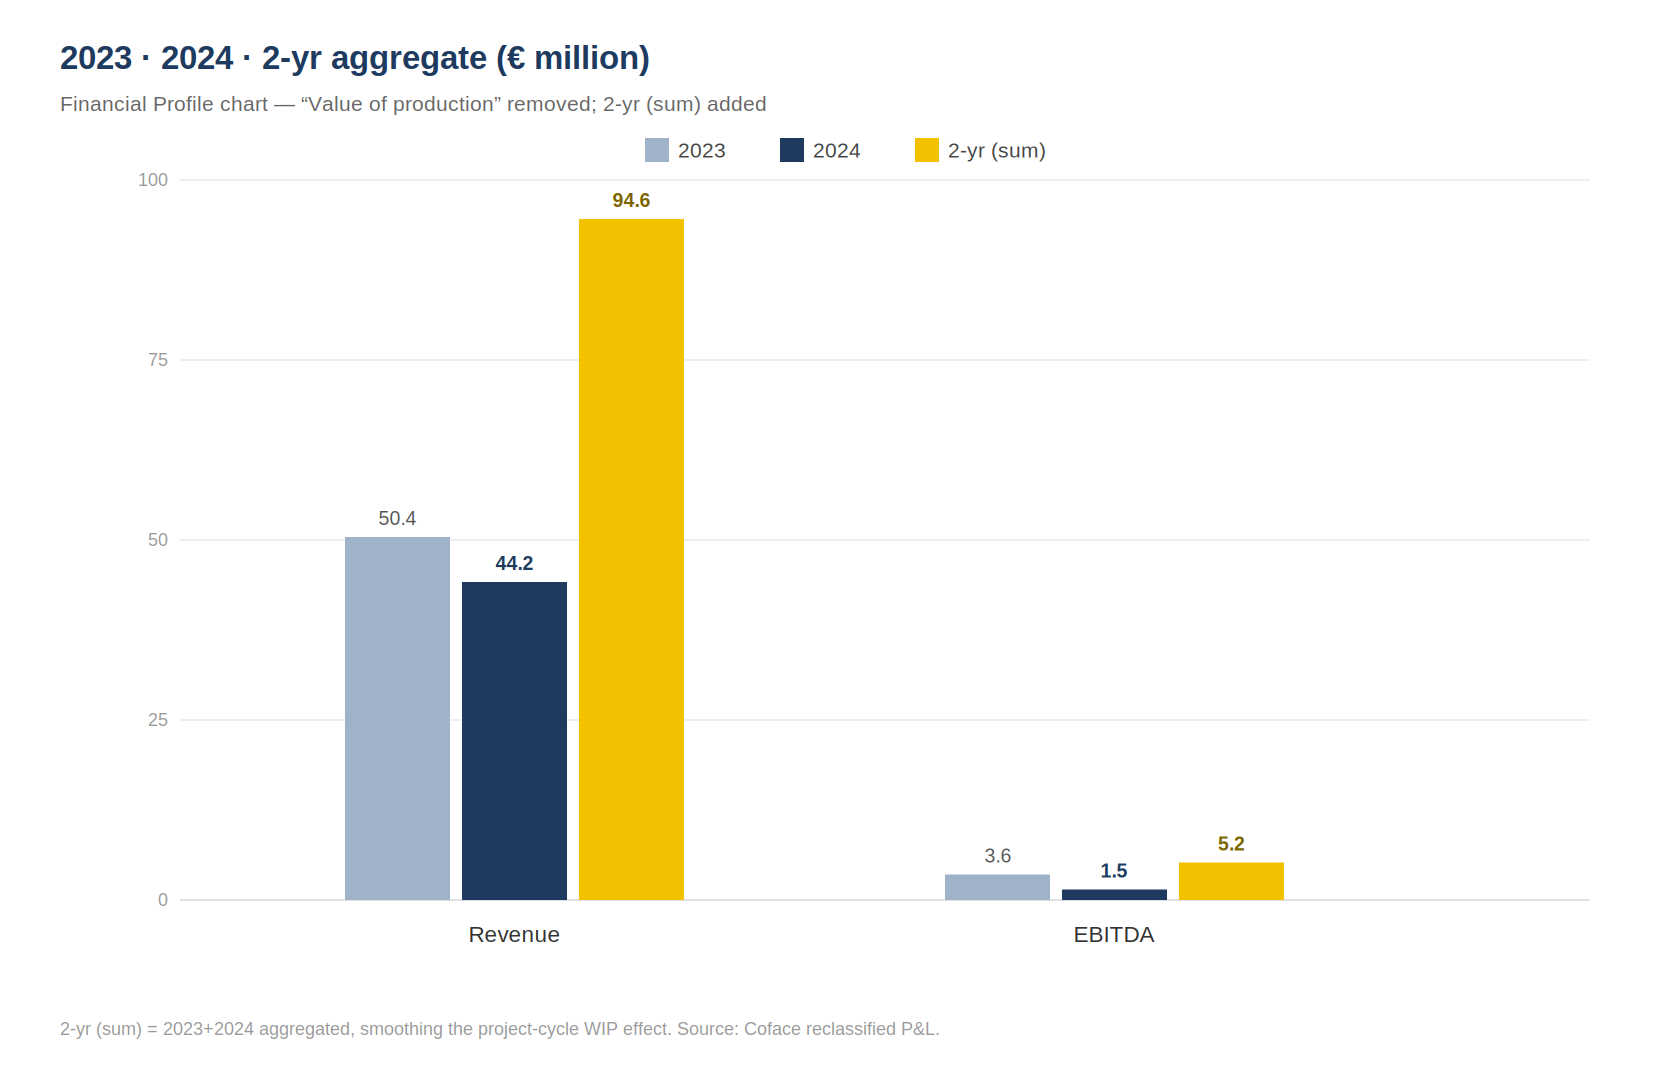
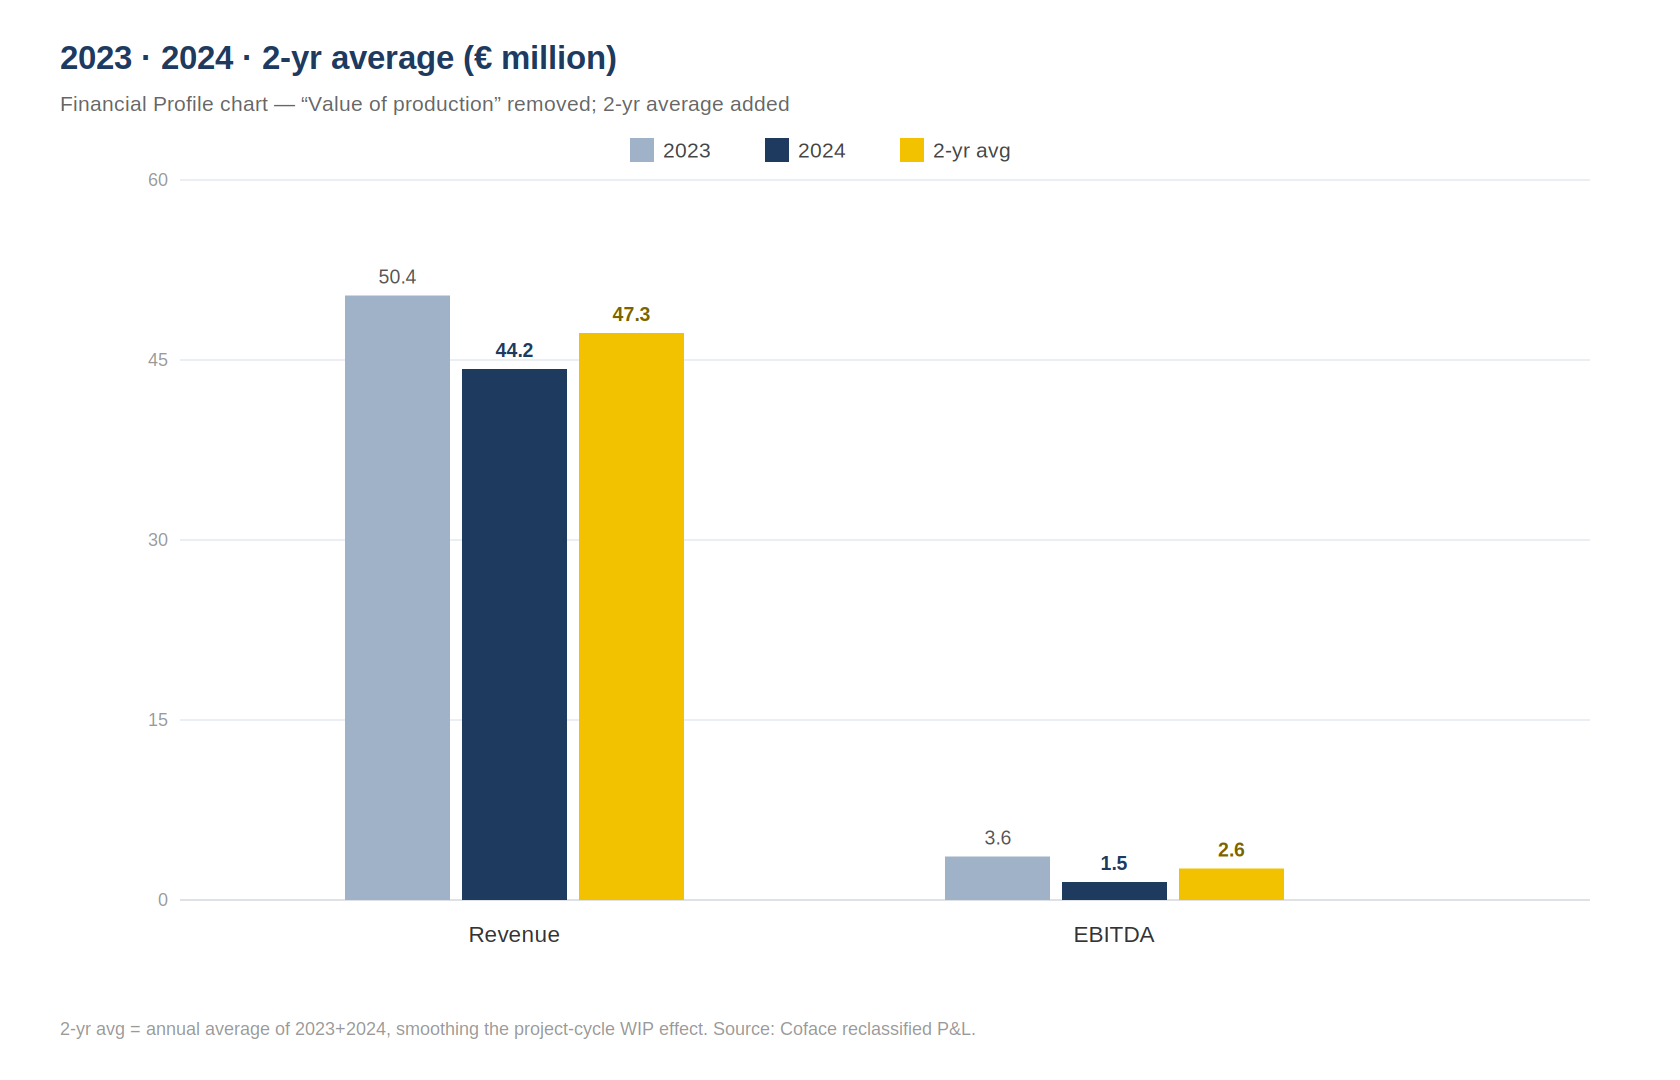
Use 2-yr annual average (not sum) for normalised views on P&L and Financial charts

diff --git a/Hennecke/pitch/build_pptx_editable.py b/Hennecke/pitch/build_pptx_editable.py
@@ -182,12 +182,12 @@ header(s, "Financial profile 2023–2024",
        "Cyclical & project-based business · thin margins · self-financed working capital", "2 / 7")
 # left card with native chart
 rect(s, 50, 125, 720, 700, fill=LIGHT, line=BORDER)
-para(tb(s, 74, 140, 600, 28), "2023 · 2024 · 2-yr aggregate (€ million)", size=17, color=BLUE, bold=True, first=True)
+para(tb(s, 74, 140, 600, 28), "2023 · 2024 · 2-yr average (€ million)", size=17, color=BLUE, bold=True, first=True)
 cd = CategoryChartData()
 cd.categories = ["Revenue", "EBITDA"]
 cd.add_series("2023", (50.4, 3.6))
 cd.add_series("2024", (44.2, 1.5))
-cd.add_series("2-yr (sum)", (94.6, 5.2))
+cd.add_series("2-yr avg", (47.3, 2.6))
 gframe = s.shapes.add_chart(XL_CHART_TYPE.COLUMN_CLUSTERED, PX(70), PX(180), PX(680), PX(470), cd)
 chart = gframe.chart
 chart.has_legend = True; chart.legend.position = XL_LEGEND_POSITION.TOP
@@ -244,7 +244,7 @@ para(tb(s, 50, 866, 900, 20), "Source: Coface Full Report (filed FY2023–2024).
 # =====================================================================
 s = slide()
 header(s, "P&L recap — cost structure (2023 · 2024 · normalised)",
-       "Summing both years nets out the project-cycle WIP swing → a normalised run-rate", "3 / 7")
+       "Averaging both years nets out the project-cycle WIP swing → a normalised run-rate", "3 / 7")
 cats = ["EBITDA", "Materials", "Personnel", "Services", "Lease & rentals", "Other op. costs"]
 colA = {"EBITDA":"84BD00","Materials":"F2A100","Personnel":"D9531E","Services":"3C7DA6","Lease & rentals":"8C5A2B","Other op. costs":"BFBFBF"}
 txtA = {"EBITDA":INK,"Materials":INK,"Personnel":WHITE,"Services":WHITE,"Lease & rentals":WHITE,"Other op. costs":INK}
@@ -292,9 +292,9 @@ for c in cats:
 # callout
 rect(s, 1010, 505, 540, 150, fill=BLUEBG, line=BLUELN)
 tfc = tb(s, 1032, 515, 496, 132)
-para(tfc, [("Normalising the cycle: ", True, BLUE, 14), ("aggregating 2023+2024 nets out the WIP swing, giving a run-rate EBITDA of ", False, TXT, 14), ("~5.6% of value of production", True, TXT, 14), (" (~5.5% of revenue) — a fairer valuation base than either single year.", False, TXT, 14)], first=True, after=6)
+para(tfc, [("Normalising the cycle: ", True, BLUE, 14), ("averaging 2023+2024 nets out the WIP swing, giving a run-rate EBITDA of ", False, TXT, 14), ("~5.6% of value of production", True, TXT, 14), (" (~5.5% of revenue) — a fairer valuation base than either single year.", False, TXT, 14)], first=True, after=6)
 para(tfc, "Single years are distorted by project timing: 7.0% (2023, WIP build-up) vs 3.8% (2024, WIP unwind).", size=12, color=GRAY, italic=True)
-para(tb(s, 50, 860, 1330, 30), "2-yr = 2023+2024 aggregated (value of production €92.7m), neutralising the project-cycle WIP swing. % of value of production; may not sum to 100 due to rounding. Source: Coface reclassified P&L.", size=9.5, color=MUTED, first=True)
+para(tb(s, 50, 860, 1330, 30), "2-yr = annual average of 2023+2024 (value of production €46.3m), neutralising the project-cycle WIP swing. % of value of production; may not sum to 100 due to rounding. Source: Coface reclassified P&L.", size=9.5, color=MUTED, first=True)
 
 # =====================================================================
 # SLIDE 2b — CUSTOMER MAPPING (B2B end-markets)